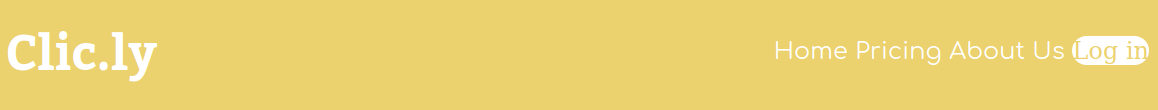
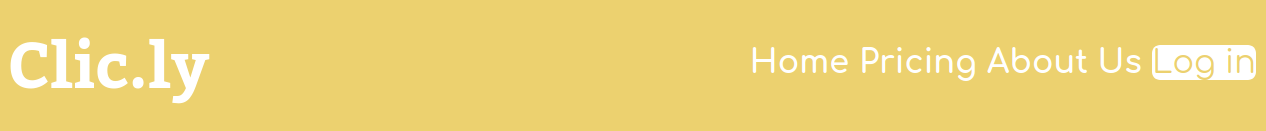
Finalizado o capitulo do dia 2

Changed region(s): [[0.5907, 0.3273, 0.9948, 0.6273], [0.0, 0.2727, 0.1865, 0.7909]]

diff --git a/ebook/03-dia-02.md b/ebook/03-dia-02.md
@@ -114,7 +114,7 @@ Entre no arquivo **404.html** e adicione a tag `<link>` para relacionar ele com 
 Volte ao terminal e crie a pasta **elements** dentro da pasta **css**. Estando dentro da pasta **css** rode o comando a seguir:
 
 ```bash
-mkdir css
+mkdir elements
 ```
 
 #### 5. Crie arquivo base.css
@@ -337,7 +337,22 @@ Importe realizado, volte ao arquivo **simple-action.css** e aplique a fonte Comf
 
 Você terá o seguinte resultado visual no navegador:
 
-![Compoente simple-action usando a fonte Comfortaa](img/3-simple-action.png)
+![Componente simple-action usando a fonte Comfortaa](img/3-simple-action.png)
+
+Defina a fonte como negrita usando a propriedade `text-weight` com o valor `bold`:
+
+```
+.simple-action {
+  color: var(--color-second);
+  text-decoration: none;
+  font-family: 'Comfortaa', sans-serif;
+  font-weight: bold;
+}
+```
+
+O resultado no navegadore será esse:
+
+![Componente simple-action com o texto em negrito](img/4-simple-action.png)
 
 <div class="page"/>
 
@@ -348,7 +363,7 @@ O componente primary-button terá um pouco mais de propriedades comparado com os
 1. Coloque a classe `primary-button` no quarto link da navegação principal do nosso site;
 2. Adicione um arquivo novo na pasta **componente** chamado **primary-button.css**;
 3. Construa todo o CSS necessário no arquivo **primary-button.css** para o componente `primary-button` ficar similar a imagem a seguir, lembre-se das regras de um componente:
-![Como o componente primary-button deve ficar](img/primary-button.img)
+![Como o componente primary-button deve ficar](img/primary-button.png)
 
 ### Passo a passo
 
@@ -436,11 +451,27 @@ Para adiconar bordar arredondadas utilize a proriedade `border-radius` com o val
   background-color: var(--color-second);
   text-decoration: none;
   color: var(--color-primary);
-  border-radius: 10px;
+  border-radius: 4px;
 }
 ```
 
 ![Componente primary-button com as bordas arredondadas](img/4-primary-button.png)
+
+Mude a família de fonte para a Comfortaa usando a propriedade `font-family` com o valor `''Comfortaa', sans-serif;`:
+
+```css
+.primary-button {
+  background-color: var(--color-second);
+  text-decoration: none;
+  color: var(--color-primary);
+  border-radius: 4px;
+  font-family: 'Comfortaa', sans-serif;
+}
+```
+
+![Componente primary-button com a fonte Comfortaa](img/5-primary-button.png)
+
+<div class="page"/>
 
 ## Exercício 06 - Primeiro container
 Praticamos bastante o conceito de componentes, agora chegou a hora de estudar o conceito de containers. Nosso primeiro container será aplicado na tag `<header>`, um container tem a responsabilidade de juntar os componentes além de posicionar e denifir o tamanho, espaçamentos e posicionamente deles no contexto do container. Bora práticar que ficará mais claro tudo que tentei dizer.
@@ -476,7 +507,7 @@ Abra o arquivo **404.html** e adicione a tag `<link>` que irá relacionar com o 
 <link rel="stylesheet" href="css/components/simple-action.css">
 <link rel="stylesheet" href="css/components/primary-button.css">
 
-<link rel="stylesheet" href="css/contaienrs/main-header.css">
+<link rel="stylesheet" href="css/containers/main-menu.css">
 ```
 
 #### 3. Adicione a classe main-header
@@ -543,3 +574,263 @@ Resultado no navegador:
 
 ![Logo para esquerda e navegação para direita](img/3-main-header.png)
 
+Crie o seletor que irá pegar apenas o componente `main-logo` quando for um filho direto do container `main-header`, adicione esse seletor após o do `.main-header`:
+
+```css
+.main-header {
+  display: flex;
+  align-items: center;
+  justify-content: space-between;
+}
+
+.main-header > .main-logo {
+ 
+}
+```
+
+Dentro do seletor que acabamos de criar, defina o tamanho de `20px` para o `main-logo` usando a propriedade `main-logo`:
+
+```css
+.main-header {
+  display: flex;
+  align-items: center;
+  justify-content: space-between;
+}
+
+.main-header > .main-logo {
+  font-size: 20px;
+}
+```
+
+Você terá o seguinte resultado visual no navegador:
+
+![Componente main-logo com o tamanho de fonte 20px](img/4-main-header.png)
+
+## Exercício 07 - Container main-menu
+Para finalizar o nosso header, é necessário criar o container `main-menu` que irá posicionar e definir o tamnho dos items do menu de navegação principal.
+
+### Tarefas
+1. Crie o arquivo **main-menu.css** dentro da pasta **containers**;
+2. Crie o arquivo **gap.css** dentro da pastas **settings**;
+3. Defina em variáveis os respiros da nossa aplicação no arquivo **gap.css**;
+4. Adicione a classe `main-menu` na tag `<nav>` que esta dentro do `<header>`;
+5. Crie o CSS necessário para deixar o container `main-menu` dessa maneira:
+![Como o container main-menu deve ficar](img/main-menu.png)
+
+### Passo a passo
+
+#### 1. Crie arquivo main-menu.css
+Dentro da pasta **containers** crie o arquivo **main-menu.css**.
+
+Abra o arquivo **404.html** e dentro dele use a tag `<link>` para relacionar o arquivo **main-menu.css**, essa tag ficará antes do container **main-header.css**, o código que esta **dentro do seu `<head>` ficará da seguinte forma**:
+
+```html
+<meta charset="utf-8">
+<title>Clic.ly - Not found page</title>
+
+<link href="https://fonts.googleapis.com/css?family=Bitter:400,400i,700&display=swap" rel="stylesheet"> 
+<link href="https://fonts.googleapis.com/css?family=Comfortaa:300,400,500,700&display=swap" rel="stylesheet"> 
+
+<link rel="stylesheet" href="css/settings/color.css">
+<link rel="stylesheet" href="css/elements/base.css">
+
+<link rel="stylesheet" href="css/components/main-logo.css">
+<link rel="stylesheet" href="css/components/simple-action.css">
+<link rel="stylesheet" href="css/components/primary-button.css">
+
+<link rel="stylesheet" href="css/containers/main-menu.css">
+<link rel="stylesheet" href="css/containers/main-header.css">
+```
+
+#### 2. Crie arquivo gap.css
+Crie um arquivo **gap.css** dentro da pasta **settings**, esse arquivo terá variáveis com os espaços (respiros, termos mais usado pelos designers) entre os elementos do nosso layout.
+
+Abra o arquivo **404.html** e adicione a tag `<link>` que importará o arquivo **gap.css** ela ficará após o `<link>` do arquivo **color.css**, o conteúdo da sua tag `<head>` ficará assim:
+
+```css
+<meta charset="utf-8">
+<title>Clic.ly - Not found page</title>
+
+<link href="https://fonts.googleapis.com/css?family=Bitter:400,400i,700&display=swap" rel="stylesheet"> 
+<link href="https://fonts.googleapis.com/css?family=Comfortaa:300,400,500,700&display=swap" rel="stylesheet"> 
+
+<link rel="stylesheet" href="css/settings/color.css">
+<link rel="stylesheet" href="css/settings/gap.css">
+<link rel="stylesheet" href="css/elements/base.css">
+
+<link rel="stylesheet" href="css/components/main-logo.css">
+<link rel="stylesheet" href="css/components/simple-action.css">
+<link rel="stylesheet" href="css/components/primary-button.css">
+
+<link rel="stylesheet" href="css/containers/main-menu.css">
+<link rel="stylesheet" href="css/containers/main-header.css">
+```
+
+#### 3. Crie variável de respiro
+Dentro do arquivo **gap.css** crie o seletor `:root`:
+
+```css
+:root {
+  
+}
+```
+
+No seletor `:root`, adicione a variável `--gap-samll` com o valor de `22px`:
+
+```css
+:root {
+  --gap-small: 22px;
+}
+``` 
+
+#### 4. Adicione classe main-menu
+No arquivo **404.html** adicione o atributo `class` com o valor `main-menu` na tag `<na>` que esta dentro da tag `<header>`, sua tag `<nav>` ficará assim:
+
+```html
+<nav class="main-menu">
+  <a class="simple-action" href="">Home</a>
+  <a class="simple-action" href="">Pricing</a>
+  <a class="simple-action" href="">About Us</a>
+  <a class="primary-button" href="">Log in</a>
+</nav>
+```
+
+#### 5. CSS do container main-menu
+
+Crie o seletor que irá pegar os filhos direitos do container `main-menu` que têm a classe `simple-action`. Repare que tem que ser apenas os **filhos diretos**, por tanto será necessário usar o seletor avaçãndo de filho direto que é representado pelo sinal de maior (`>`):
+
+```css
+.main-menu > .simple-action {
+  
+}
+```
+
+Utilize a propriedade `margin-right` com o valor `var(--gap-small)` dentro do seletor `.main-menu > .simple-action` para adicionar um *gap* (respiro) externo do lado direito de cada um dos componentes:
+
+```css
+.main-menu > .simple-action {
+  margin-right: var(--gap-small);
+}
+```
+
+O resultado no navegador será:
+
+![Os componentes simple-action com respiro externo a direita](img/1-main-menu.png)
+
+Defina o tamanho da fonte como `12px` usando a propriedade `font-size` dentro do seletor `.main-menu > .simple-action`:
+
+```css
+.main-menu > .simple-action {
+  margin-right: var(--gap-small);
+  font-size: 12px;
+}
+```
+
+Verá o seguinte resultado visual no navegador:
+
+![Adicionado fonte de 12px nos simple-action](img/2-main-menu.png)
+
+Crie um seletor para pegar o filho direito do container `main-menu` que tem a classe `primary-button`, esse seletor ficará após o seletor `.main-menu > .simple-action`:
+
+```css
+.main-menu > .primary-button {
+
+}
+```
+
+Defina a propriedade `display` com o valor `inline-block` para que a propriedade `width` e `height` funcione e ele continue ao lado dos demais elementos do container `main-menu`:
+
+```css
+.main-menu > .primary-button {
+  display: inline-block;
+}
+```
+
+Coloque a fonte com o tamanho de `12px` utilizando a propriedade `font-size` para o componente `primary-button` que é filho direto do container `main-menu`:
+
+```css
+.main-menu > .primary-button {
+  display: inline-block;
+  font-size: 12px;
+}
+```
+
+O resultado no navegador será:
+
+![Componente primary-button com o tamanho de 12px para fonte](img/3-main-menu.png)
+
+Adicione a largura de `60px` no utilizando a propriedade `width` para o `primary-button` que está dentro do `main-menu`:
+
+```css
+.main-menu > .primary-button {
+  display: inline-block;
+  font-size: 12px;
+  width: 60px;
+}
+```
+
+O resultado no navegador será esse:
+
+![Adiconado uma largura de 60px para o primary-button](img/4-main-menu.png)
+
+Para centrar o texto dentro do botão vamos usar a propriedade `text-align` com o valor `center`, dentro do seletor `.main-menu > .primary-button`:
+
+```css
+.main-menu > .primary-button {
+  display: inline-block;
+  font-size: 12px;
+  width: 60px;
+  text-align: center;
+}
+```
+
+Esse é o resultado no seu navegador:
+
+![Texto centralizado do componente primary-button](img/5-main-menu.png)
+
+Use a propriedade `height` para definir a altura de `20px` para o componente `primary-button` que é filho direto do container `main-menu`:
+
+```css
+.main-menu > .primary-button {
+  display: inline-block;
+  font-size: 12px;
+  width: 60px;
+  text-align: center;
+  height: 20px;
+}
+```
+
+Vá no seu navegador e verá isso:
+
+![Componente primary-button com a altura de 20px](img/6-main-menu.png)
+
+Para o texto do componente `primary-button` também ficar centralizado no eixo vertical deixaremos a altura da linha com a mesma altura da caixa do componente, use a propriedade `linhe-height` com o valor de `20px` que é o mesmo valor que definimos na propriedade `height`:
+
+```css
+.main-menu > .primary-button {
+  display: inline-block;
+  font-size: 12px;
+  width: 60px;
+  text-align: center;
+  height: 20px;
+  line-height: 20px;
+}
+```
+
+O layout do container `main-menu` estará assim no seu navegador:
+
+![Texto centralizado no eixo vertical que esta no componente primary-button](img/7-menu-main.png)
+
+<div class="page"/>
+
+## Desafios top top top
+
+### Básico
+Crie todo o HTML que falta para a seção que está após o nosso cabeçalho:
+![Imagem do desafio básico](img/secao-principal.png)
+
+### Intermediário
+Crie todo o CSS necessário para que a seção que vem depois do header fique exatamente como está na imagem do desafio básico. Lembre-se de criar os *components* e *containers* necessários para deixar o nosso código simples e feliz para manutenções futuras. Sistema que é fácil de dar manutenção tem um custo mais baixo e é um produto mais competitivo no mercado de trabalho.
+
+### Avançado
+Remova ao máximo o CSS que o navegaor coloca nas tags, cada nevegador escolhe um valor direfente para as propriedades e isso fará com que o nosso layout não funcione igual em navegadores diferentes. Essa técnica é chamada de *reset* CSS (recompor o CSS).

diff --git a/README.md b/README.md
@@ -2,6 +2,7 @@
 
 ### HTML e CSS
 - Dirença entre os seletores de id, class e tag
+- Valor de especificidade dos seletores do CSS
 - O que é e como usar o RSCSS?
 - O que é e como user o ITCSS?
 - Por que a propriedade font-family do CSS tem muitos valores?
@@ -12,6 +13,7 @@
 - Como funciona a propriedade transition do CSS
 - A mágica da propriedade transform do CSS
 - Criei seus próprios atributos `data-atribute`
+- Diferença entre margin e padding
 
 ### JavaScript
 - Variaveis (`const`, `let` e `var`)
